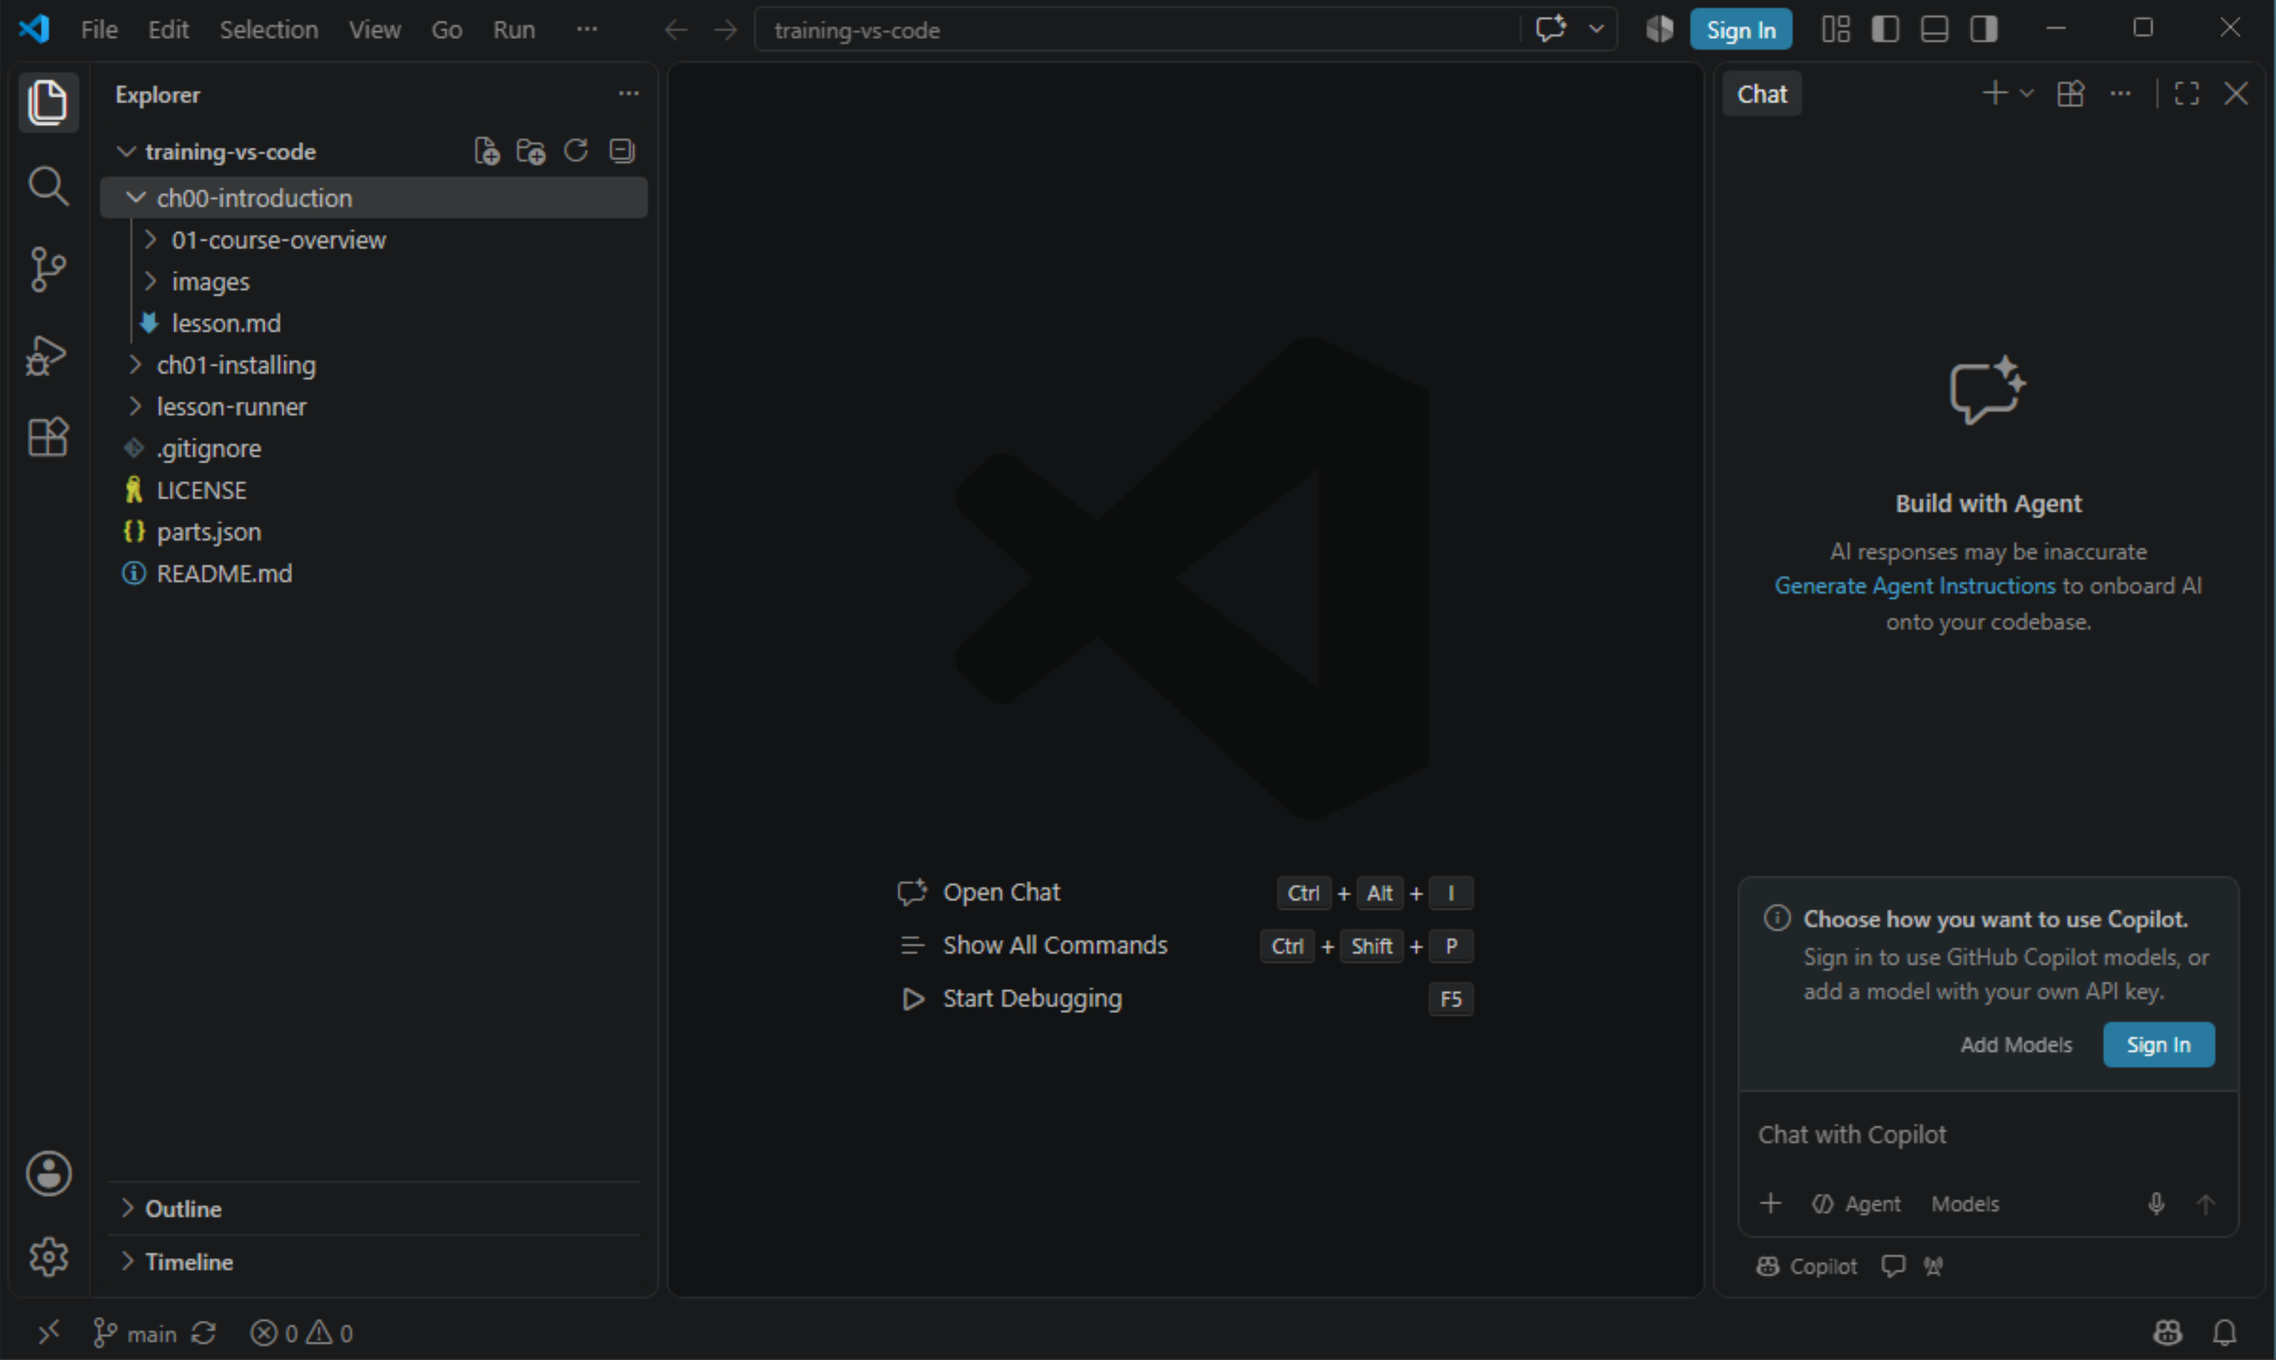
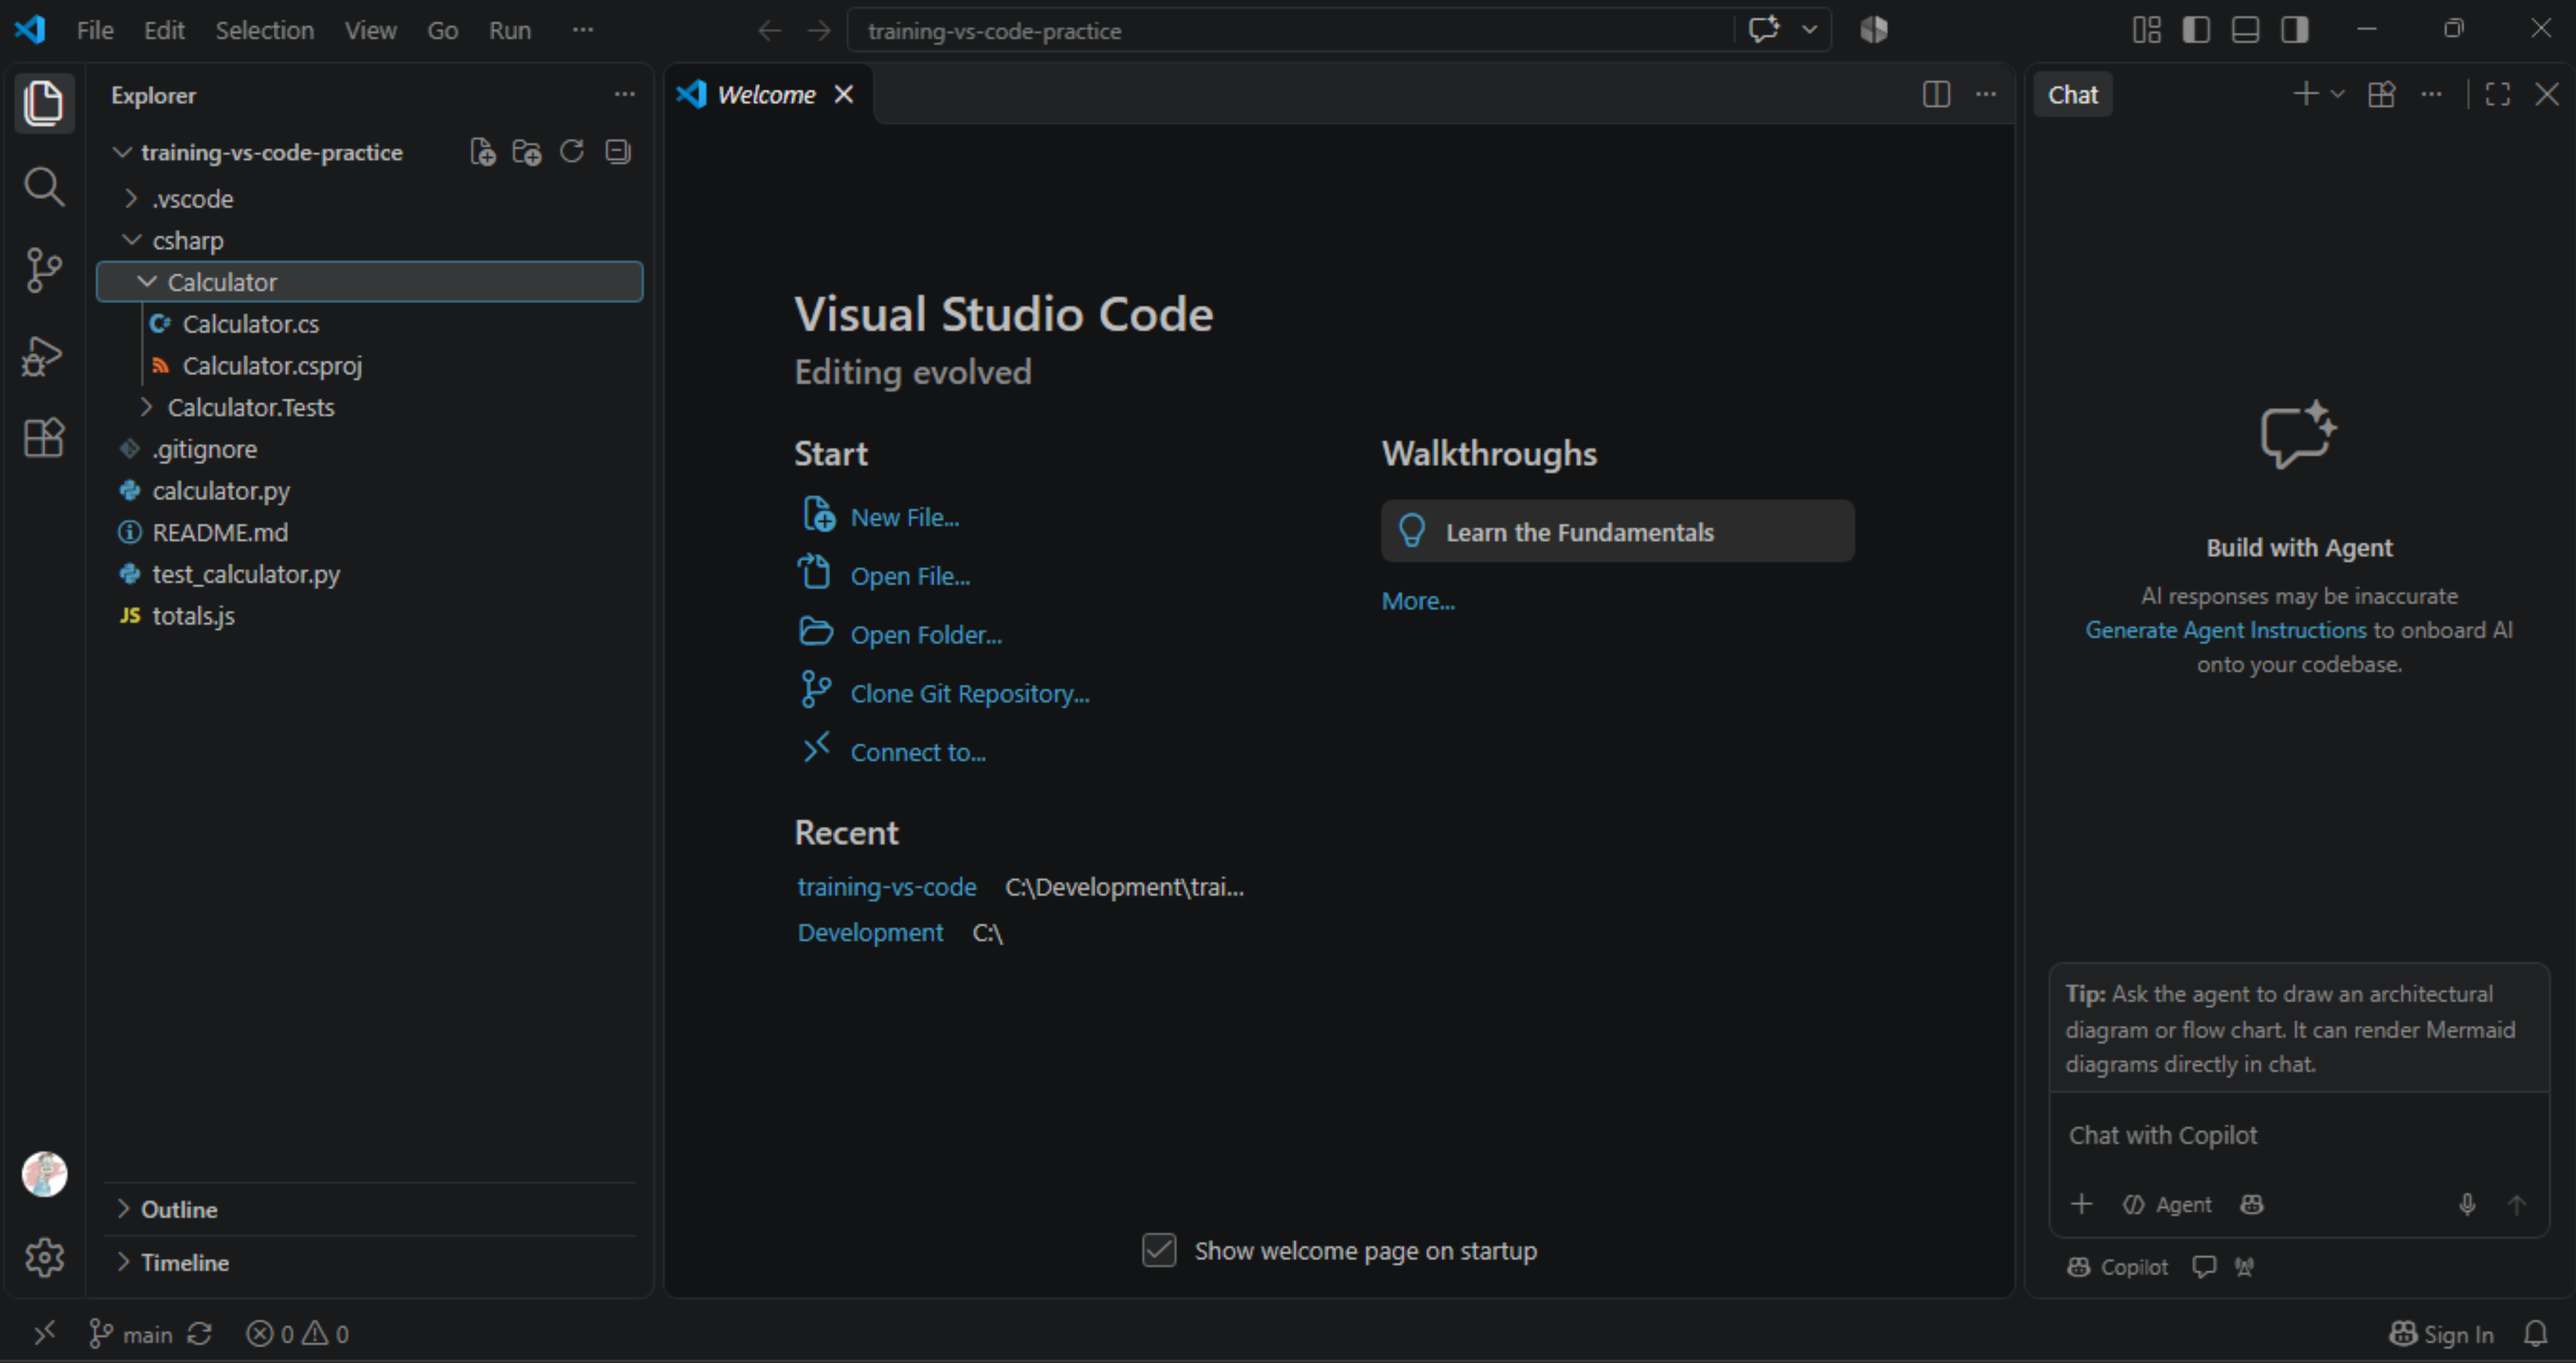
SWM - Update ch 03 screenshots

diff --git a/ch03-opening-folders/01-clone-the-practice-repository/lesson.md b/ch03-opening-folders/01-clone-the-practice-repository/lesson.md
@@ -1,0 +1,30 @@
+# Cloning the practice repository
+
+Your practice repository lives on GitHub, under your account. Before you can work on it, you need a copy on your computer. This step makes that copy with Git, from PowerShell. Chapter 11 shows how to copy a repository from inside VS Code.
+
+Open PowerShell, and move to the folder where you keep your projects. This course uses C:\Development:
+
+```
+cd C:\Development
+git clone https://github.com/YOUR-USERNAME/training-practice.git training-practice
+```
+
+Replace YOUR-USERNAME with your GitHub username.
+
+If you named your repository something other than training-practice in Chapter 2, change the name in the web address to match, so it reads `https://github.com/YOUR-USERNAME/your-repository-name.git`. The name after the address is the folder Git creates on your computer. You can keep training-practice for that folder, or use your repository's name. If you change it, use the same folder name in the next steps, in place of training-practice.
+
+If Git asks you to sign in, a browser window opens. Sign in with your personal account, and allow the access it asks for. Git remembers the sign-in for the later steps.
+
+When the command finishes, check the copy with this command:
+
+```
+git status
+```
+
+It should say that you are on the main branch, and that there is nothing to commit.
+
+Now open the copy in VS Code. Choose File, then Open Folder, and pick the folder you just created, such as C:\Development\training-practice. When the trust prompt appears, choose Yes, I trust the authors, as Chapter 1 explained.
+
+> **Keep the copy tidy:** the practice repository is yours to change, but the course folder you opened earlier is not. Do your work in training-practice, and leave training-vs-code alone.
+
+---

diff --git a/ch03-opening-folders/lesson.md b/ch03-opening-folders/lesson.md
@@ -2,4 +2,4 @@
 
 VS Code works on folders, not on single files. When you open a folder, the Explorer lists its files, Quick Open finds any file by its name, and the window layout decides how much of that you see at once. This chapter covers how to open a folder, how to move around inside it, and how to arrange the window so that the things you need are on screen.
 
-Most of the chapter is practice. You will use the course folder that the setup script opened, because the practice repository is not copied to your computer until Chapter 11. Each part ends in a checklist, and the last part of the chapter gathers the checks together.
+Most of the chapter is practice. You start by copying your practice repository to your computer, and the rest of the chapter uses that copy. Each part ends in a checklist, and the last part of the chapter gathers the checks together.

diff --git a/ch03-opening-folders/04-workspaces/lesson.md b/ch03-opening-folders/04-workspaces/lesson.md
@@ -12,7 +12,7 @@ To add a folder to the window, choose File, then Add Folder to Workspace, and pi
 
 Once the folders are in place, choose File, then Save Workspace As, and give the file a name. VS Code writes a file that ends in .code-workspace. It records which folders are in the window, so opening that file later brings them all back.
 
-> **Where to save it:** save the .code-workspace file outside the course folder, such as in C:\Development. Otherwise it ends up in the course repository and is shared with everyone who clones it.
+> **Where to save it:** save the .code-workspace file outside the practice folder, such as in C:\Development. Otherwise it ends up in the practice repository and is shared with everyone who clones it.
 
 Each folder in a workspace has its own trust setting, so you may see the Restricted Mode prompt for each one you add.
 

diff --git a/ch03-opening-folders/07-checklist-layout/lesson.md b/ch03-opening-folders/07-checklist-layout/lesson.md
@@ -1,6 +1,6 @@
 # Checklist: layout
 
-Work through this list in the course folder. Put the window back the way you found it when you finish.
+Work through this list in the practice folder. Put the window back the way you found it when you finish.
 
 - [ ] Ctrl+Shift+P opens the command palette, and a search for "zen" finds Zen Mode.
 - [ ] Ctrl+B hides the side bar, and Ctrl+B shows it again.
@@ -9,6 +9,6 @@ Work through this list in the course folder. Put the window back the way you fou
 - [ ] You entered Zen Mode with Ctrl+K, then Z, and left it with Esc twice.
 - [ ] You zoomed in with Ctrl+=, and back to the default with Ctrl+0.
 
-Chapter 4 starts editing text, and it uses the same course folder.
+Chapter 4 starts editing text, in the same practice folder.
 
 ---

diff --git a/ch03-opening-folders/02-open-a-folder/lesson.md b/ch03-opening-folders/02-open-a-folder/lesson.md
@@ -21,6 +21,6 @@ flowchart TD
 
 VS Code remembers the folders you have opened. File, then Open Recent, lists them, so you can reopen one without finding it again. Removing a folder from the list only removes the entry. It does not delete anything on your computer.
 
-> **Trust prompt:** the first time you open a folder, VS Code opens it in Restricted Mode. Chapter 1 explains how to turn on trust for it, and you should do that for the course folder.
+> **Trust prompt:** the first time you open a folder, VS Code opens it in Restricted Mode. Chapter 1 explains how to turn on trust for it, and you should do that for the practice folder.
 
 ---

diff --git a/ch03-opening-folders/03-find-files/lesson.md b/ch03-opening-folders/03-find-files/lesson.md
@@ -20,6 +20,6 @@ The Explorer is the top icon in the activity bar on the left. It shows the open 
 
 *Figure 3.3 - The Explorer with a folder expanded*
 
-If the Explorer is not showing, press Ctrl+Shift+E to bring it up. Right-clicking an item in the Explorer gives you the usual file actions, such as New File and Rename. You do not need those yet, so leave the course folder as it is.
+If the Explorer is not showing, press Ctrl+Shift+E to bring it up. Right-clicking an item in the Explorer gives you the usual file actions, such as New File and Rename. You do not need those yet, so leave the practice folder as it is.
 
 ---

diff --git a/ch03-opening-folders/05-checklist-folders/lesson.md b/ch03-opening-folders/05-checklist-folders/lesson.md
@@ -1,0 +1,11 @@
+# Checklist: folders and files
+
+Work through this list in the practice folder. Each item is something you can see in the window or in a menu.
+
+- [ ] You opened the practice folder with File, then Open Folder.
+- [ ] The folder appears under File, then Open Recent.
+- [ ] Ctrl+P finds the README file by typing part of its name.
+- [ ] The Explorer shows the practice folder, and you expanded one folder inside it.
+- [ ] You added a second folder to the window, and saved a .code-workspace file outside the practice folder.
+
+---
